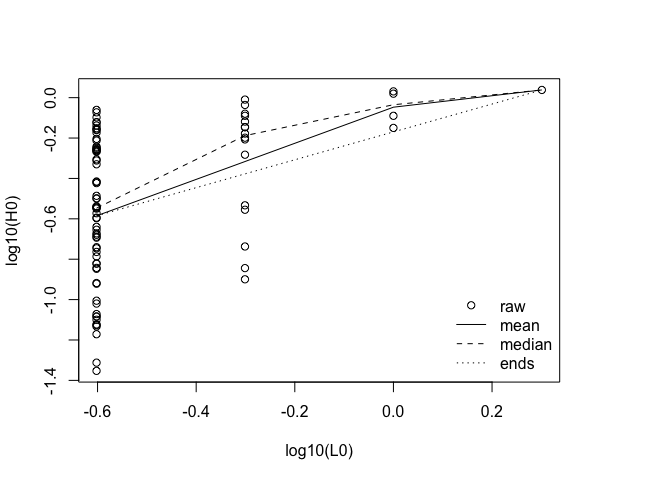
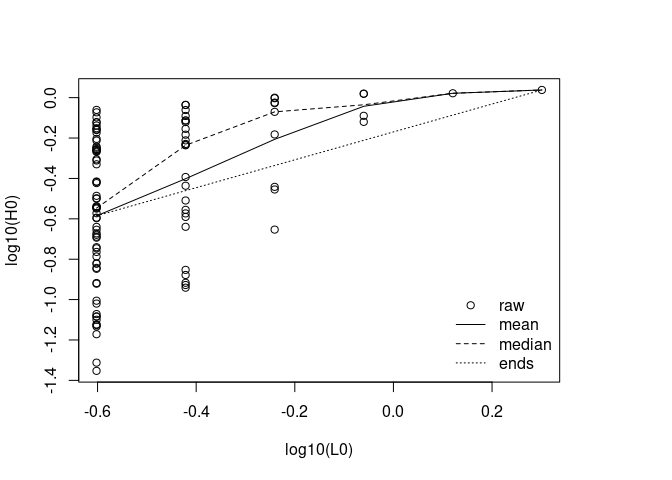
resolve check errors and warnings :bug:

diff --git a/.c b/.c
@@ -1,0 +1,1 @@
+void test() {}

diff --git a/README.md b/README.md
@@ -27,7 +27,7 @@ devtools::install_github("jmadinlab/habtools")
 
 ## Examples
 
-There are currently to data set accompanying this package. `horseshoe`
+There are currently two data set accompanying this package. `horseshoe`
 is a digital elevation model of a reef, and `mcap` is a 3D mesh of a
 coral growing on a reef.
 
@@ -39,6 +39,8 @@ developed in Torres-Pulliza et al. (2020).
 library(habtools)
 #> Loading required package: raster
 #> Loading required package: sp
+#> Warning: multiple methods tables found for 'direction'
+#> Loading required package: rgl
 plot(horseshoe)
 
 # height range
@@ -55,18 +57,18 @@ rg(horseshoe, x=-470, y=1266, L=2, L0=0.25, plot=TRUE)
 
     # fractal dimension is broken into two parts
     # 1. Collate height variation in grids of different resolutions
-    hts <- hvar(horseshoe, x=-470, y=1266, L=2, Lvec=2/c(1, 2, 4, 8))
+    hts <- hvar(horseshoe, x=-470, y=1266, L=2, L0 = 0.25)
 
     # 2. Use the height variation data to calculate fractal dimension
     fd(hts)
-    #> [1] 2.289402
+    #> [1] 2.280339
 
     # Here is the log-log plot with various `methods` superimposed
     fd(hts, plot=TRUE)
 
 <img src="man/figures/README-example1-2.png" width="100%" />
 
-    #> [1] 2.289402
+    #> [1] 2.280339
 
 The next example calculates height range, rugosity and fractal dimension
 for a 3D mesh of a coral colony. Because meshes can have more than one
@@ -80,21 +82,21 @@ hr(mcap, method="mesh")
 #> [1] 0.2185397
 
 # fractal dimension
-cubes(mcap, L0=0.015, plot=TRUE)
+cubes(mcap, L0 = 0.05, plot=TRUE)
 ```
 
-<img src="man/figures/README-example 2-1.png" width="100%" />
+<img src="man/figures/README-example2-1.png" width="100%" />
 
     #> $cubes
     #>           L0   n
-    #> 1 0.40931573   1
-    #> 2 0.20465787   8
-    #> 3 0.10232893  31
-    #> 4 0.05116447 141
-    #> 5 0.02558223 528
+    #> 1 0.04793157 156
+    #> 2 0.07988596  67
+    #> 3 0.11982893  29
+    #> 4 0.23965787   8
+    #> 5 0.47931573   1
     #> 
     #> $fd
-    #> [1] 2.222834
+    #> [1] 2.162709
 
 You can use the `mesh_to_dem` function and now compare fractal dimension
 calculated with the two methods. Note that we expect these to be
@@ -103,13 +105,19 @@ they have one `z` per `xy` pair; or as some people say, they are 2.5D,
 not 3D).
 
 ``` r
-dem <- mesh_to_dem(mcap, res=0.015)
-L <- dim(dem)[1] * res(dem)[1]
-
-hts <- hvar(dem, xmin(dem), ymin(dem), L, Lvec=L/c(1, 2, 3, 4, 6, 8, 10))
-fd(hts, plot=TRUE)
+dem <- mesh_to_dem(mcap, res = 0.01)
+plot(dem)
 ```
 
 <img src="man/figures/README-example3-1.png" width="100%" />
 
-    #> [1] 2.287082
+``` r
+L <- min(dim(dem)[c(1,2)]) * res(dem)[1]
+
+hts <- hvar(dem, x = xmin(dem), y = ymin(dem), L = L, L0 = 0.05)
+fd(hts, plot = TRUE)
+```
+
+<img src="man/figures/README-example3-2.png" width="100%" />
+
+    #> [1] 2.521731
